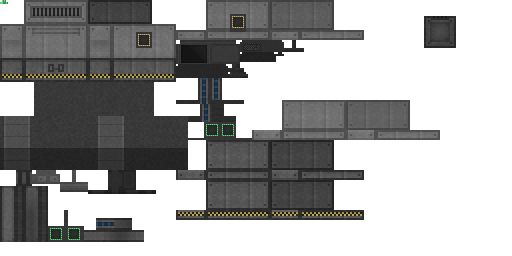
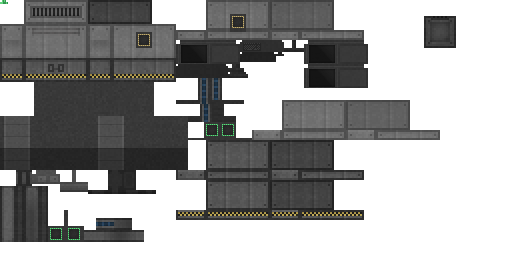
update
Texture modifications to digital miners
Fix part of the text of the digital miner is not read from lang
Try to fix the factory's input slot error #10【It will still cause some recipe errors, but at least it will not turn into a black purple item [meta error becomes 32767]】
Fix incorrect coding [Close #20]
Increase the maximum injection volume of fusion reactors

--中文--
对数字型采矿机的贴图修改
修复数字矿机的部分文字不是从lang读取
尝试修复工厂的输入插槽错误  #10 【目前仍然会导致部分配方错误，但起码不会变成黑紫色物品[即meta错误变成为32767]】
修复错误的编码 [关闭 #20]
提高聚变反应堆的最大注入量

Changed region(s): [[0.5938, 0.1562, 0.7188, 0.3438]]

diff --git a/src/main/java/mekanism/common/tile/TileEntityFactory.java b/src/main/java/mekanism/common/tile/TileEntityFactory.java
@@ -470,6 +470,7 @@ public class TileEntityFactory extends TileEntityMachine implements IComputerInt
     }
 
     public ItemStack getRecipeOutput(MachineRecipe recipe) {
+
         if (recipe.recipeOutput instanceof ItemStackOutput) {
             return ((ItemStackOutput) recipe.recipeOutput).output;
         } else if (recipe.recipeOutput instanceof ChanceOutput) {
@@ -479,6 +480,7 @@ public class TileEntityFactory extends TileEntityMachine implements IComputerInt
         } else {
             return ItemStack.EMPTY;
         }
+
     }
 
     public ItemStack getRecipeInput(MachineRecipe recipe) {
@@ -547,6 +549,7 @@ public class TileEntityFactory extends TileEntityMachine implements IComputerInt
      * @return True if the recipe produces the given output.
      */
     public boolean inputProducesOutput(int slotID, ItemStack fallbackInput, ItemStack output, boolean updateCache) {
+
         if (output.isEmpty()) {
             return true;
         }
@@ -736,67 +739,31 @@ public class TileEntityFactory extends TileEntityMachine implements IComputerInt
             if (slotID >= 8 && slotID <= 10) {
                 return false;
             } else if (slotID >= 5 && slotID <= 7) {
-                if(recipeType.getFuelType() == MachineFuelType.ADVANCED
-                        || recipeType.getFuelType() == MachineFuelType.FARM
-                        || recipeType == RecipeType.INFUSING
-                        || recipeType.getFuelType() == MachineFuelType.CHANCE
-                        || recipeType.getFuelType() == MachineFuelType.DOUBLE
-                ) {
-                    return recipeType.getAnyRecipe(itemstack, inventory.get(4), gasTank.getGasType(), infuseStored) != null;
-
-                }else return recipeType.getRecipe(itemstack) !=null;
+                return recipeType.getAnyRecipe(itemstack, inventory.get(4), gasTank.getGasType(), infuseStored) != null;
             }
         } else if (tier == FactoryTier.ADVANCED) {
             if (slotID >= 10 && slotID <= 14) {
                 return false;
             } else if (slotID >= 5 && slotID <= 9) {
-                if(recipeType.getFuelType() == MachineFuelType.ADVANCED
-                        || recipeType.getFuelType() == MachineFuelType.FARM
-                        || recipeType == RecipeType.INFUSING
-                        || recipeType.getFuelType() == MachineFuelType.CHANCE
-                        || recipeType.getFuelType() == MachineFuelType.DOUBLE
-                ) {
-                    return recipeType.getAnyRecipe(itemstack, inventory.get(4), gasTank.getGasType(), infuseStored) != null;
-                }else return recipeType.getRecipe(itemstack) !=null;
+                return recipeType.getAnyRecipe(itemstack, inventory.get(4), gasTank.getGasType(), infuseStored) != null;
             }
         } else if (tier == FactoryTier.ELITE) {
             if (slotID >= 12 && slotID <= 18) {
                 return false;
             } else if (slotID >= 5 && slotID <= 11) {
-                if(recipeType.getFuelType() == MachineFuelType.ADVANCED
-                        || recipeType.getFuelType() == MachineFuelType.FARM
-                        || recipeType == RecipeType.INFUSING
-                        || recipeType.getFuelType() == MachineFuelType.CHANCE
-                        || recipeType.getFuelType() == MachineFuelType.DOUBLE
-                ) {
-                    return recipeType.getAnyRecipe(itemstack, inventory.get(4), gasTank.getGasType(), infuseStored) != null;
-                }else return recipeType.getRecipe(itemstack) !=null;
+                return recipeType.getAnyRecipe(itemstack, inventory.get(4), gasTank.getGasType(), infuseStored) != null;
             }
         } else if (tier == FactoryTier.ULTIMATE) {
             if (slotID >= 14 && slotID <= 22) {
                 return false;
             } else if (slotID >= 5 && slotID <= 13) {
-                if(recipeType.getFuelType() == MachineFuelType.ADVANCED
-                        || recipeType.getFuelType() == MachineFuelType.FARM
-                        || recipeType == RecipeType.INFUSING
-                        || recipeType.getFuelType() == MachineFuelType.CHANCE
-                        || recipeType.getFuelType() == MachineFuelType.DOUBLE
-                ) {
-                    return recipeType.getAnyRecipe(itemstack, inventory.get(4), gasTank.getGasType(), infuseStored) != null;
-                }else return recipeType.getRecipe(itemstack) !=null;
+                return recipeType.getAnyRecipe(itemstack, inventory.get(4), gasTank.getGasType(), infuseStored) != null;
             }
         }else if (tier == FactoryTier.CREATIVE) {
             if (slotID >= 16 && slotID <= 26) {
                 return false;
             } else if (slotID >= 5 && slotID <= 15) {
-                if(recipeType.getFuelType() == MachineFuelType.ADVANCED
-                        || recipeType.getFuelType() == MachineFuelType.FARM
-                        || recipeType == RecipeType.INFUSING
-                        || recipeType.getFuelType() == MachineFuelType.CHANCE
-                        || recipeType.getFuelType() == MachineFuelType.DOUBLE
-                ) {
-                    return recipeType.getAnyRecipe(itemstack, inventory.get(4), gasTank.getGasType(), infuseStored) != null;
-                }else return recipeType.getRecipe(itemstack) !=null;
+                return recipeType.getAnyRecipe(itemstack, inventory.get(4), gasTank.getGasType(), infuseStored) != null;
             }
         }
 

diff --git a/src/main/java/mekanism/common/integration/OreDictManager.java b/src/main/java/mekanism/common/integration/OreDictManager.java
@@ -53,8 +53,13 @@ public final class OreDictManager {
         for (ItemStack plank : OreDictionary.getOres("plankWood", false)) {
             plank = StackUtils.size(plank, 1);
             if (!Recipe.PRECISION_SAWMILL.containsRecipe(plank)) {
-                RecipeHandler.addPrecisionSawmillRecipe(plank, new ItemStack(Items.STICK, 6),
-                      new ItemStack(MekanismItems.Sawdust), MekanismConfig.current().general.sawdustChancePlank.val());
+                if (plank.getItemDamage() == OreDictionary.WILDCARD_VALUE) {
+                    for (int i = 0; i < 5; i++) {
+                        RecipeHandler.addPrecisionSawmillRecipe(new ItemStack(plank.getItem(),1,i), new ItemStack(Items.STICK, 6),new ItemStack(MekanismItems.Sawdust), MekanismConfig.current().general.sawdustChancePlank.val());
+                    }
+                } else {
+                RecipeHandler.addPrecisionSawmillRecipe(plank, new ItemStack(Items.STICK, 6), new ItemStack(MekanismItems.Sawdust), MekanismConfig.current().general.sawdustChancePlank.val());
+                }
             }
             RecipeHandler.addPRCRecipe(plank, new FluidStack(FluidRegistry.WATER, 20), new GasStack(MekanismFluids.Oxygen, 20), ItemStack.EMPTY,
                   new GasStack(MekanismFluids.Hydrogen, 20), 0, 30);
@@ -63,8 +68,13 @@ public final class OreDictManager {
         for (ItemStack slab : OreDictionary.getOres("slabWood", false)) {
             slab = StackUtils.size(slab, 1);
             if (!Recipe.PRECISION_SAWMILL.containsRecipe(slab)) {
-                RecipeHandler.addPrecisionSawmillRecipe(slab, new ItemStack(Items.STICK, 3), new ItemStack(MekanismItems.Sawdust),
-                      MekanismConfig.current().general.sawdustChancePlank.val() / 2);
+                if (slab.getItemDamage() == OreDictionary.WILDCARD_VALUE) {
+                    for (int i = 0; i < 5; i++) {
+                        RecipeHandler.addPrecisionSawmillRecipe(new ItemStack(slab.getItem(),1,i), new ItemStack(Items.STICK, 3), new ItemStack(MekanismItems.Sawdust), MekanismConfig.current().general.sawdustChancePlank.val() / 2);
+                    }
+                }else {
+                    RecipeHandler.addPrecisionSawmillRecipe(slab, new ItemStack(Items.STICK, 3), new ItemStack(MekanismItems.Sawdust), MekanismConfig.current().general.sawdustChancePlank.val() / 2);
+                }
             }
             RecipeHandler.addPRCRecipe(slab, new FluidStack(FluidRegistry.WATER, 10), new GasStack(MekanismFluids.Oxygen, 10), ItemStack.EMPTY,
                   new GasStack(MekanismFluids.Hydrogen, 10), 0, 15);

diff --git a/src/main/java/mekanism/common/MekanismItems.java b/src/main/java/mekanism/common/MekanismItems.java
@@ -62,8 +62,14 @@ public class MekanismItems {
   //  public static final ItemMekaSuitHelmet MekaSuitHelmet = new ItemMekaSuitHelmet();
  //   public static final ItemMekaSuitChest MekaSuitChest = new ItemMekaSuitChest();
 
-
-
+    public static final Item EnergyTabletCraft = new ItemMekanism();
+    /*
+    public static final Item EnergyCubeBasicCraft = new ItemMekanism();
+    public static final Item EnergyCubeAdvancedCraft = new ItemMekanism();
+    public static final Item EnergyCubeEliteCraft = new ItemMekanism();
+    public static final Item EnergyCubeUltimateCraft = new ItemMekanism();
+    public static final Item EnergyCubeCreativeCraft = new ItemMekanism();
+    */
 
     //Multi-ID Items
     public static final Item OtherDust = new ItemOtherDust();
@@ -140,9 +146,17 @@ public class MekanismItems {
         registry.register(init(TierInstaller, "TierInstaller"));
         registry.register(init(OtherDust, "OtherDust"));
 
-   //     registry.register(init(MekaSuitHelmet, "MekaSuitHelmet"));
-  //      registry.register(init(MekaSuitChest, "MekaSuitChest"));
+    //    registry.register(init(MekaSuitHelmet, "MekaSuitHelmet"));
+    //    registry.register(init(MekaSuitChest, "MekaSuitChest"));
 
+        registry.register(init(EnergyTabletCraft,"EnergyTabletCraft"));
+        /*
+        registry.register(init(EnergyCubeBasicCraft,"EnergyCubeBasicCraft"));
+        registry.register(init(EnergyCubeAdvancedCraft,"EnergyCubeAdvancedCraft"));
+        registry.register(init(EnergyCubeEliteCraft,"EnergyCubeEliteCraft"));
+        registry.register(init(EnergyCubeUltimateCraft,"EnergyCubeUltimateCraft"));
+        registry.register(init(EnergyCubeCreativeCraft,"EnergyCubeCreativeCraft"));
+        */
         registry.register(init(PlutoniumPellet,"PlutoniumPellet"));
         registry.register(init(AntimatterPellet,"AntimatterPellet"));
         registry.register(init(ReprocessedFissileFragment,"ReprocessedFissileFragment"));

diff --git a/src/main/java/mekanism/client/gui/GuiDigitalMiner.java b/src/main/java/mekanism/client/gui/GuiDigitalMiner.java
@@ -70,8 +70,8 @@ public class GuiDigitalMiner extends GuiMekanismTile<TileEntityDigitalMiner> {
             ret.add(LangUtils.localize("mekanism.gui.bufferfree") + ": " + MekanismUtils.getEnergyDisplay(tileEntity.getMaxEnergy() - tileEntity.getEnergy()));
             return ret;
         }, this, resource));
-        addGuiElement(new GuiSlot(SlotType.NORMAL, this, resource, 151, 5).with(SlotOverlay.POWER));
-        addGuiElement(new GuiSlot(SlotType.NORMAL, this, resource, 143, 26));
+        addGuiElement(new GuiSlot(SlotType.POWER, this, resource, 151, 5).with(SlotOverlay.POWER));
+        addGuiElement(new GuiSlot(SlotType.EXTRA, this, resource, 143, 26));
         ySize += 64;
     }
 
@@ -142,7 +142,7 @@ public class GuiDigitalMiner extends GuiMekanismTile<TileEntityDigitalMiner> {
             runningType = LangUtils.localize("gui.idle");
         }
         fontRenderer.drawString(runningType, 9, 10, 0x33ff99);
-        fontRenderer.drawString(tileEntity.searcher.state.desc, 9, 19, 0x33ff99);
+        fontRenderer.drawString(tileEntity.searcher.state.localize(), 9, 19, 0x33ff99);
 
         fontRenderer.drawString(LangUtils.localize("gui.eject") + ": " + LangUtils.localize("gui." + (tileEntity.doEject ? "on" : "off")), 9, 30, 0x33ff99);
         fontRenderer.drawString(LangUtils.localize("gui.digitalMiner.pull") + ": " + LangUtils.localize("gui." + (tileEntity.doPull ? "on" : "off")), 9, 39, 0x33ff99);

diff --git a/src/main/java/mekanism/common/item/ItemMekanism.java b/src/main/java/mekanism/common/item/ItemMekanism.java
@@ -68,7 +68,21 @@ public class ItemMekanism extends Item {
             return EnumColor.YELLOW +  LangUtils.localize("item.MufflingUpgrade.name");
         }else if (this == MekanismItems.AnchorUpgrade){
             return EnumColor.YELLOW +  LangUtils.localize("item.AnchorUpgrade.name");
-        }else
+        }else if (this == MekanismItems.EnergyTabletCraft){
+            return EnumColor.YELLOW +  LangUtils.localize("item.EnergyTabletCraft.name");
+        }/*
+        else if (this == MekanismItems.EnergyCubeBasicCraft){
+            return EnumColor.BRIGHT_GREEN +  LangUtils.localize("item.EnergyCubeBasicCraft.name");
+        }else if (this == MekanismItems.EnergyCubeAdvancedCraft){
+            return EnumColor.RED +  LangUtils.localize("item.EnergyCubeAdvancedCraft.name");
+        }else if (this == MekanismItems.EnergyCubeEliteCraft){
+            return EnumColor.AQUA +  LangUtils.localize("item.EnergyCubeEliteCraft.name");
+        }else if (this == MekanismItems.EnergyCubeUltimateCraft){
+            return EnumColor.PURPLE +  LangUtils.localize("item.EnergyCubeUltimateCraft.name");
+        }else if (this == MekanismItems.EnergyCubeCreativeCraft){
+            return EnumColor.ORANGE +  LangUtils.localize("item.EnergyCubeCreativeCraft.name");
+        } */
+        else
             return super.getItemStackDisplayName(itemstack);
     }
 }

diff --git a/src/main/java/mekanism/generators/common/FusionReactor.java b/src/main/java/mekanism/generators/common/FusionReactor.java
@@ -36,7 +36,7 @@ import net.minecraftforge.fluids.FluidTank;
 
 public class FusionReactor {
 
-    public static final int MAX_INJECTION = 1000;//this is the effective cap in the GUI, as text field is limited to 4 chars
+    public static final int MAX_INJECTION = 5000;//this is the effective cap in the GUI, as text field is limited to 4 chars
     //Reaction characteristics
     public static double burnTemperature = TemperatureUnit.AMBIENT.convertFromK(1E8, true);
     public static double burnRatio = 1;
@@ -367,8 +367,7 @@ public class FusionReactor {
         injectionRate = rate;
         int capRate = 100;
         controller.waterTank.setCapacity(TileEntityReactorController.MAX_WATER * capRate);
-        controller.steamTank.setCapacity(TileEntityReactorController.MAX_STEAM * capRate / 10);
-
+        controller.steamTank.setCapacity(TileEntityReactorController.MAX_STEAM * capRate / 50);
         if (controller.waterTank.getFluid() != null) {
             controller.waterTank.getFluid().amount = Math.min(controller.waterTank.getFluid().amount, controller.waterTank.getCapacity());
         }

diff --git a/src/main/java/mekanism/common/inventory/container/ContainerFactory.java b/src/main/java/mekanism/common/inventory/container/ContainerFactory.java
@@ -55,16 +55,7 @@ public class ContainerFactory extends ContainerMekanism<TileEntityFactory> {
             });
             addSlotToContainer(new SlotOutput(tileEntity, 3, 180 + 72, 112 ));
         }
-
-        //如果是这些类型的工厂，则添加额外插槽 --可能会导致shift左键放不进第一个插槽
-        if(tileEntity.getRecipeType().getFuelType() == MachineFuelType.ADVANCED
-                || tileEntity.getRecipeType().getFuelType() == MachineFuelType.FARM
-                || tileEntity.getRecipeType() == RecipeType.INFUSING
-                || tileEntity.getRecipeType().getFuelType() == MachineFuelType.CHANCE
-                || tileEntity.getRecipeType().getFuelType() == MachineFuelType.DOUBLE
-        ){
             addSlotToContainer(new Slot(tileEntity, 4, 7, 57));
-        }
         if (tileEntity.tier == FactoryTier.BASIC) {
             for (int i = 0; i < tileEntity.tier.processes; i++) {
                 addSlotToContainer(new FactoryInputSlot(tileEntity, getInputSlotIndex(i), 55 + (i * 38), 13, i));

diff --git a/src/main/java/mekanism/common/content/miner/ThreadMinerSearch.java b/src/main/java/mekanism/common/content/miner/ThreadMinerSearch.java
@@ -13,6 +13,7 @@ import net.minecraft.block.BlockLiquid;
 import net.minecraft.block.state.IBlockState;
 import net.minecraft.item.ItemStack;
 import net.minecraft.util.math.BlockPos;
+import net.minecraft.util.text.translation.I18n;
 import net.minecraft.world.ChunkCache;
 import net.minecraftforge.fluids.IFluidBlock;
 
@@ -121,15 +122,24 @@ public class ThreadMinerSearch extends Thread {
     }
 
     public enum State {
-        IDLE("Not ready"),
-        SEARCHING("Searching"),
-        PAUSED("Paused"),
-        FINISHED("Ready");
+        IDLE("gui.teleporter.notReady"),
+        SEARCHING("gui.teleporter.Searching"),
+        PAUSED("gui.teleporter.Paused"),
+        FINISHED("gui.teleporter.ready");
 
         public String desc;
 
         State(String s) {
             desc = s;
         }
+
+        public String localize() {
+            return I18n.translateToLocal(getTranslationKey());
+        }
+
+        public String getTranslationKey() {
+            return desc;
+        }
     }
+
 }

diff --git a/src/main/java/mekanism/client/model/ModelDigitalMiner.java b/src/main/java/mekanism/client/model/ModelDigitalMiner.java
@@ -409,13 +409,13 @@ public class ModelDigitalMiner extends ModelBase {
         monitor1.setTextureSize(256, 128);
         monitor1.mirror = true;
         setRotation(monitor1, 0.0872665F, -0.2094395F, 0F);
-        monitor2 = new ModelRenderer(this, 88, 20);
+        monitor2 = new ModelRenderer(this, 152, 20);
         monitor2.addBox(0F, -5F, -2F, 14, 10, 2);
         monitor2.setRotationPoint(-7F, 3F, -3F);
         monitor2.setTextureSize(256, 128);
         monitor2.mirror = true;
         setRotation(monitor2, 0.0872665F, 0F, 0F);
-        monitor3 = new ModelRenderer(this, 88, 20);
+        monitor3 = new ModelRenderer(this, 152, 32);
         monitor3.addBox(0F, -5F, -2F, 14, 10, 2);
         monitor3.setRotationPoint(8F, 3F, -3F);
         monitor3.setTextureSize(256, 128);

diff --git a/src/main/java/mekanism/client/jei/RecipeRegistryHelper.java b/src/main/java/mekanism/client/jei/RecipeRegistryHelper.java
@@ -349,9 +349,7 @@ public class RecipeRegistryHelper {
             Collection<SmeltingRecipe> recipeList = Recipe.ENERGIZED_SMELTER.get().values();
             registry.addRecipes(recipeList.stream().map(MachineRecipeWrapper::new).collect(Collectors.toList()),
                   Recipe.ENERGIZED_SMELTER.getJEICategory());
-
-            registry
-                  .addRecipeClickArea(GuiEnergizedSmelter.class, 79, 40, 24, 7,
+            registry.addRecipeClickArea(GuiEnergizedSmelter.class, 79, 40, 24, 7,
                         Recipe.ENERGIZED_SMELTER.getJEICategory());
         } else if (Mekanism.hooks.CraftTweakerLoaded && EnergizedSmelter.hasAddedRecipe()) {// Added but not removed
             // Only add added recipes

diff --git a/src/main/java/mekanism/client/ClientProxy.java b/src/main/java/mekanism/client/ClientProxy.java
@@ -282,7 +282,15 @@ public class ClientProxy extends CommonProxy {
         registerItemRender(MekanismItems.YellowCakeUranium);
         registerItemRender(MekanismItems.PoloniumPellet);
 
+        registerItemRender(MekanismItems.EnergyTabletCraft);
+        /*
+        registerItemRender(MekanismItems.EnergyCubeBasicCraft);
+        registerItemRender(MekanismItems.EnergyCubeAdvancedCraft);
+        registerItemRender(MekanismItems.EnergyCubeEliteCraft);
+        registerItemRender(MekanismItems.EnergyCubeUltimateCraft);
+        registerItemRender(MekanismItems.EnergyCubeCreativeCraft);
 
+         */
      //   registerItemRender(MekanismItems.MekaSuitHelmet);
     //    registerItemRender(MekanismItems.MekaSuitChest);
 
